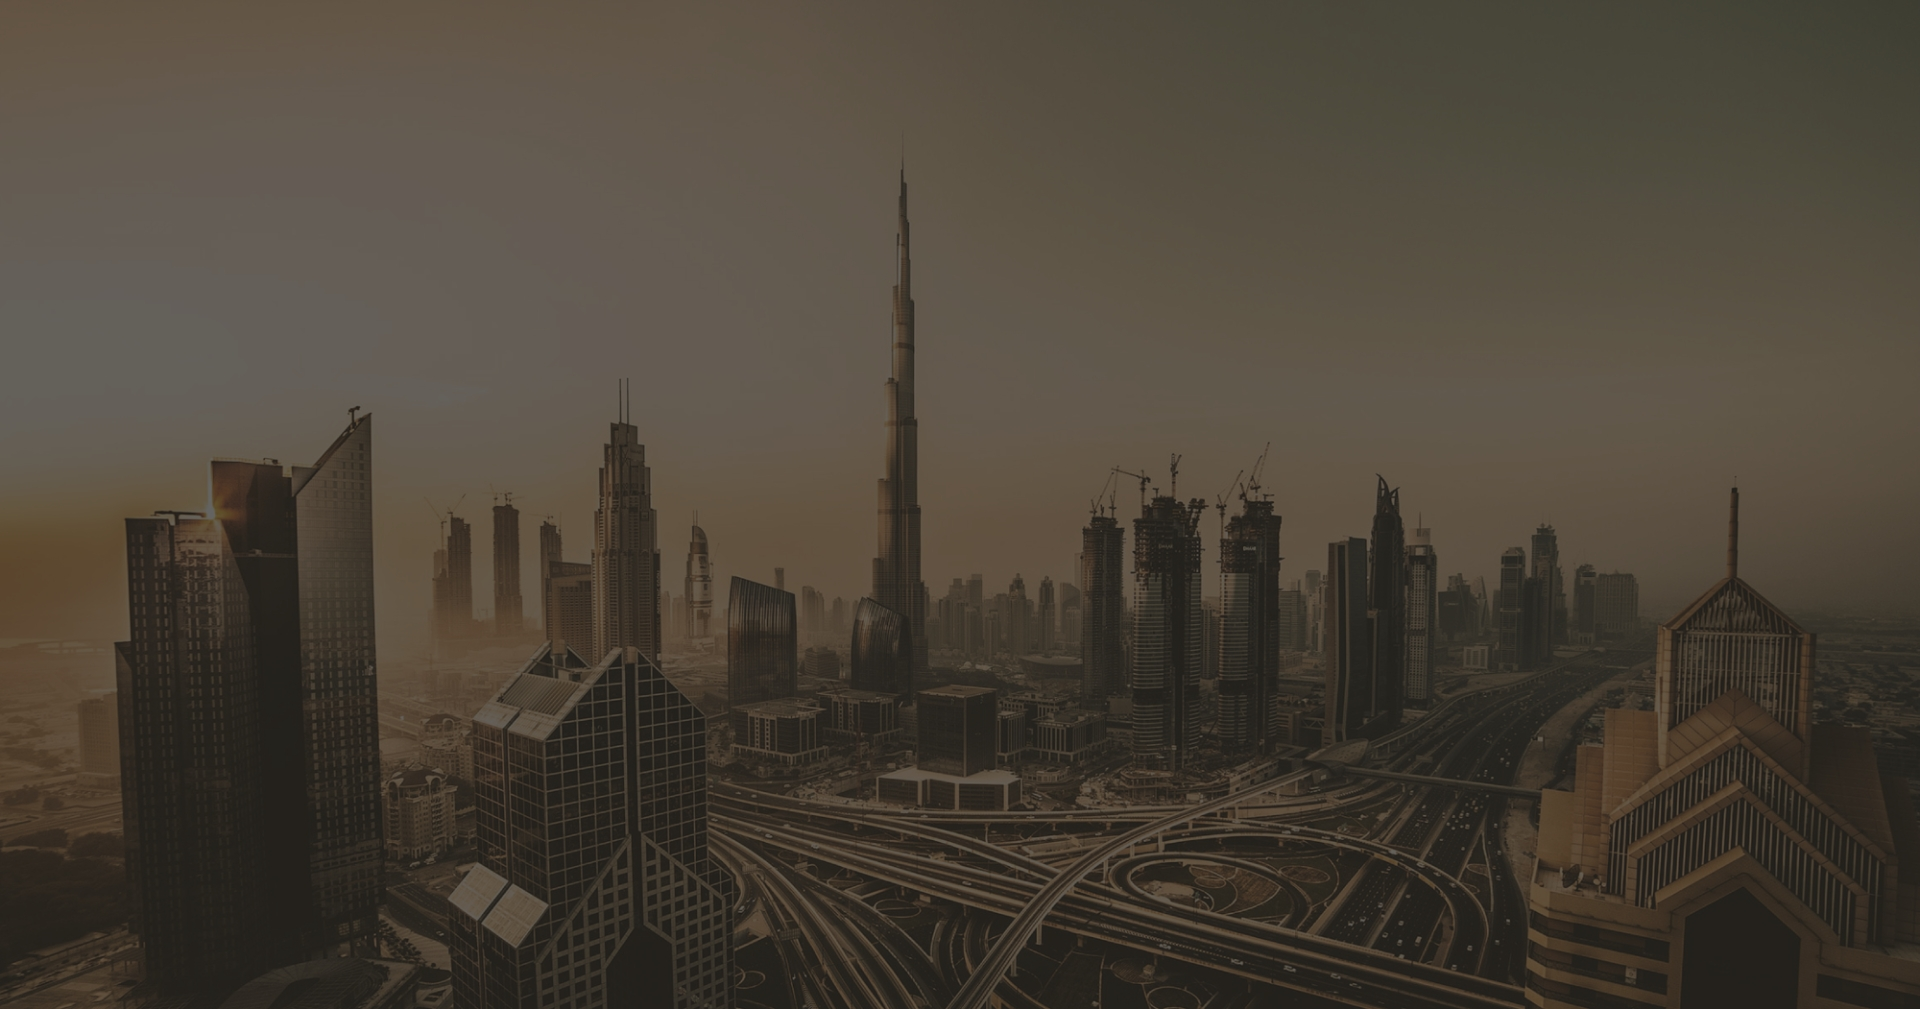
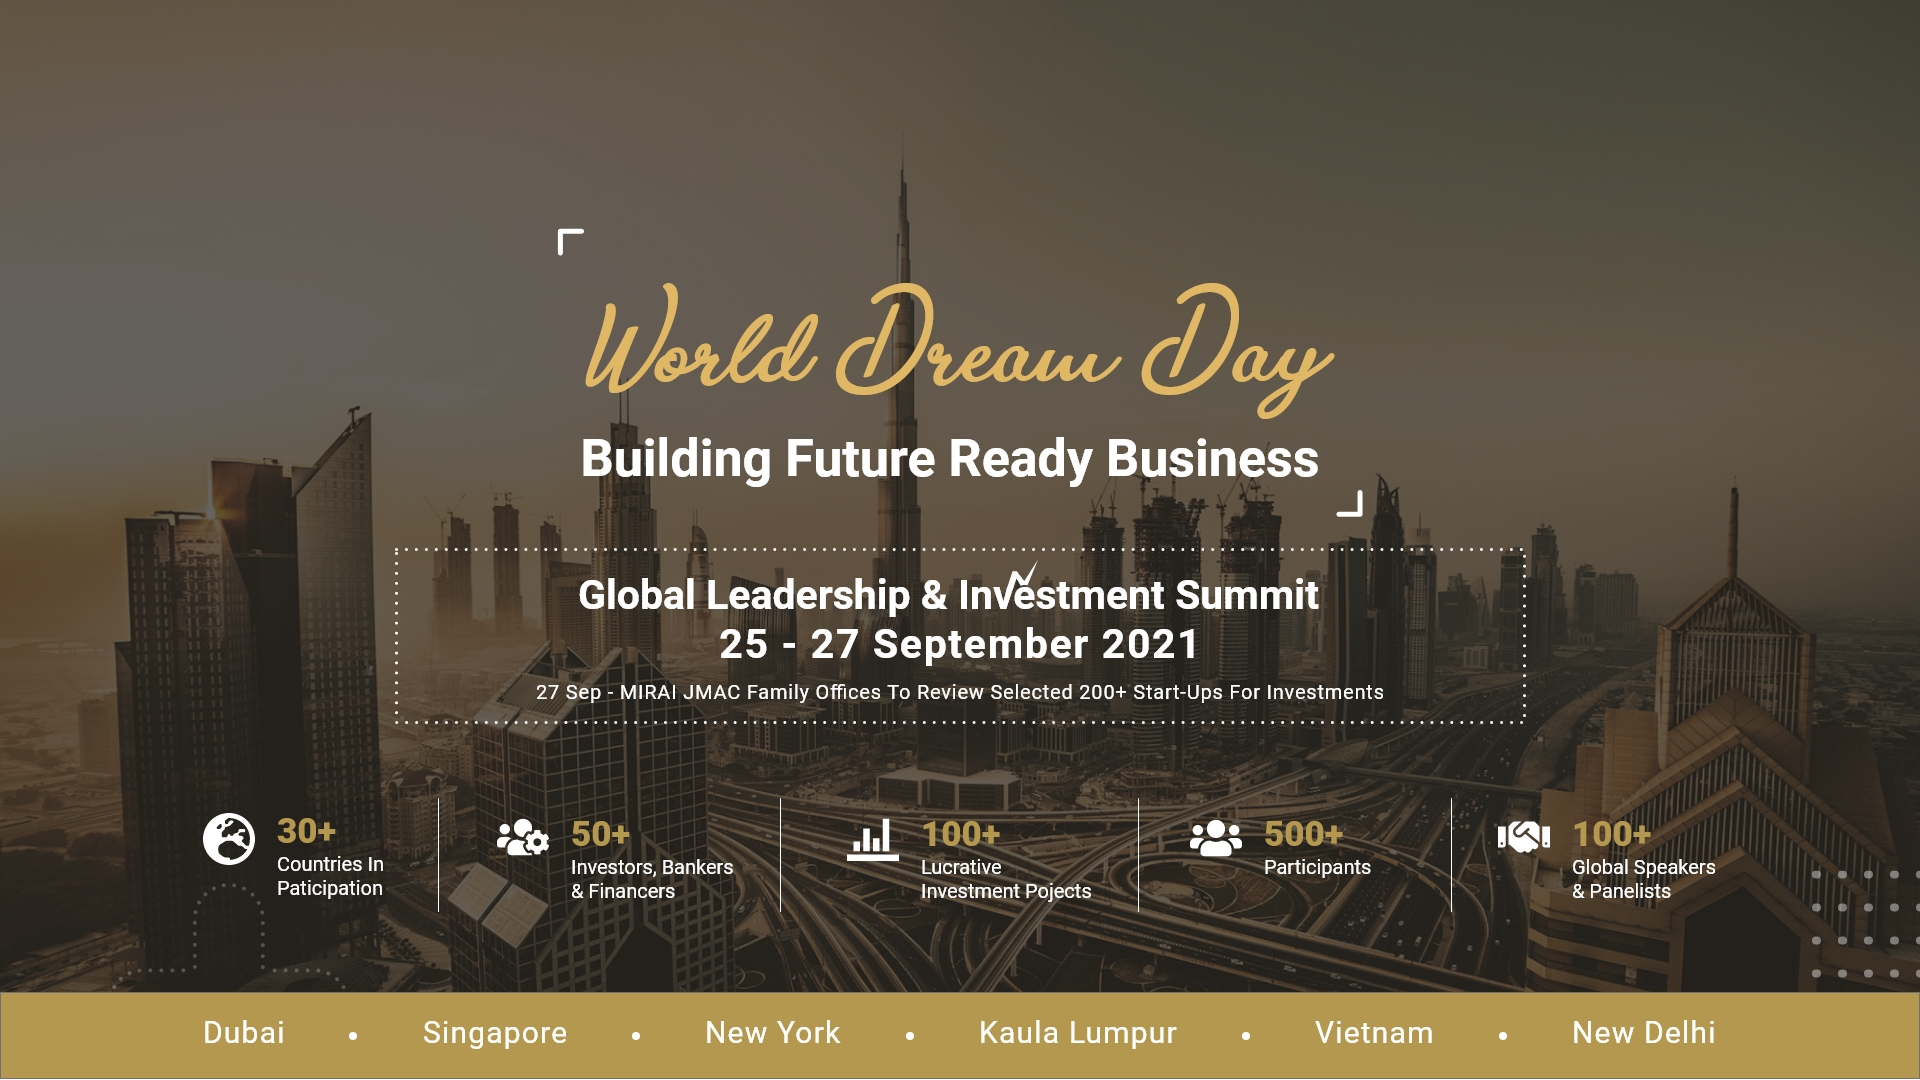
image background

diff --git a/index.html b/index.html
@@ -65,7 +65,7 @@
 
     <!-- first screen started-->
 
-    <div class="landing">
+    <!-- <div class="landing">
         <div class="container">
             <div class="row text-center dreamday">
                 <div class="col-sm-12 mainheader">
@@ -128,47 +128,51 @@
 
             </div> 
 
+           
 
-
-            <!-- <div class="row text-center">
-                <div class="col-sm-12 col-md-1">
-
-                </div>
-                <div class="col-sm-12 col-md-2">
-                    <div>                     
-                            <p class="numbertext"> <img class="minilogo" src="./img/world-globe-asia-view.png" height="30px" width="30px" alt=""> 30+ </br><span class="subtext">Countries In Paticipation</span> </p>
-                          
-                        
-                    </div>
-                </div>
-                <div class="col-sm-12 col-md-2">
-                    Column
-                </div>
-                <div class="col-sm-12 col-md-2">
-                    Column
-                </div>
-                <div class="col-sm-12 col-md-2">
-                    Column
-                </div>
-                <div class="col-sm-12 col-md-2">
-                    Column
-                </div>
-                <div class="col-sm-12 col-md-1">
-
-                </div>
-
-            </div> -->
+          
         </div>
-    </div>
+    </div> -->
+<div class="landing">
+</div>
 
-
+    
+<!-- <div style="background-color: #E0B765; ">
+<div class="container">
+    <div class="row g-0" >
+        <div class="col-sm-12 col-md-1">
+          Dubai 	
+        </div>
+        
+        <div class="col-sm-12 col-md-1">
+          Singapore
+        </div>
+        
+          <div class="col-sm-12 col-md-1">
+            New York
+          </div>
+         
+          <div class="col-sm-12 col-md-1">
+            Kaula Lumpur
+          </div>
+           
+          <div class="col-sm-12 col-md-1">
+              Vietnam
+            </div>
+            
+            <div class="col-sm-12 col-md-1">
+              New Delhi
+            </div>
+      </div>
+</div>
+</div> -->
     <!-- <div class="">
         <img src="./img/coverpage.jpg" class="cover" alt="">
     </div> -->
     <!-- first screen ended-->
 
     <!-- first scroll started -->
-    <div class="firstscroll">
+    <!-- <div class="firstscroll">
         <div class="container ">
             <div class="row align-items-center" >
                 <div class="col-sm-12 col-md-6">
@@ -227,7 +231,7 @@
                 </div>
             </div>
         </div>
-    </div>
+    </div> -->
 
     <!-- OverView Section started-->
 

diff --git a/css/style.css b/css/style.css
@@ -153,8 +153,16 @@ height: 100%;
 
   .landing{
     background-image: url(../img/coverpage.jpg);
+  
+
+    /* Full height */
+    height: 119%;
+  
+    /* Center and scale the image nicely */
+    background-position: center;
     background-repeat: no-repeat;
-    background-size: auto;
+    background-size: cover;
+    
   }
 
   .dreamday{
